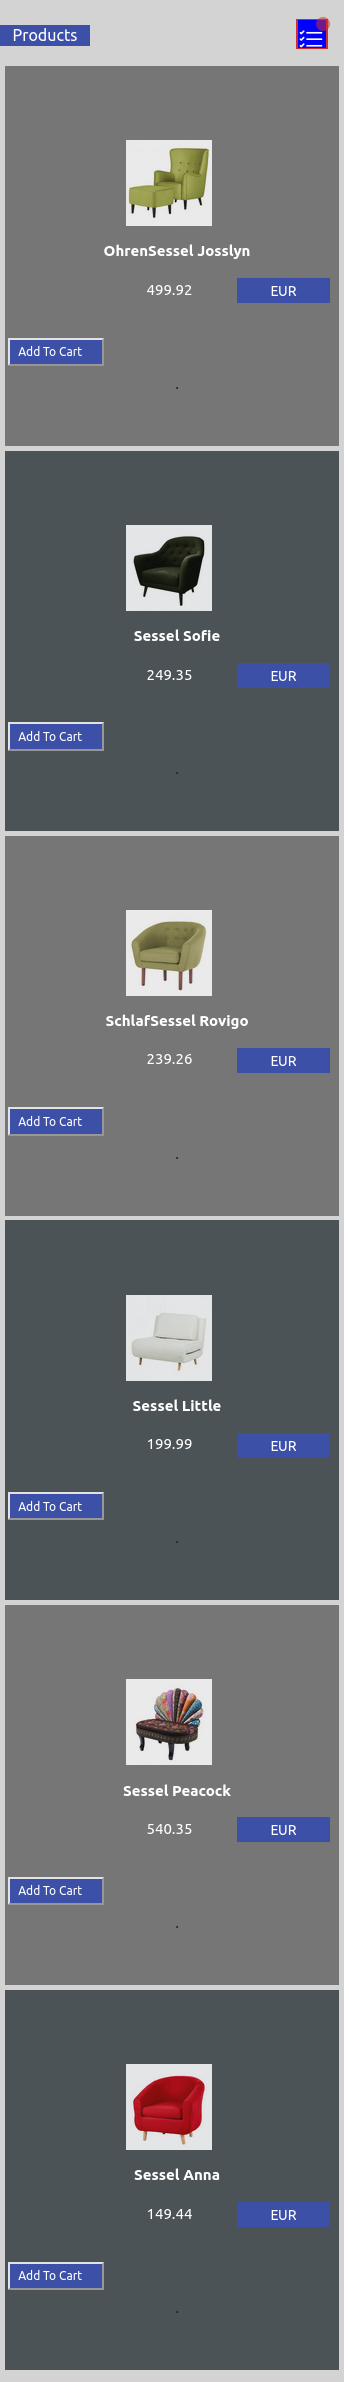
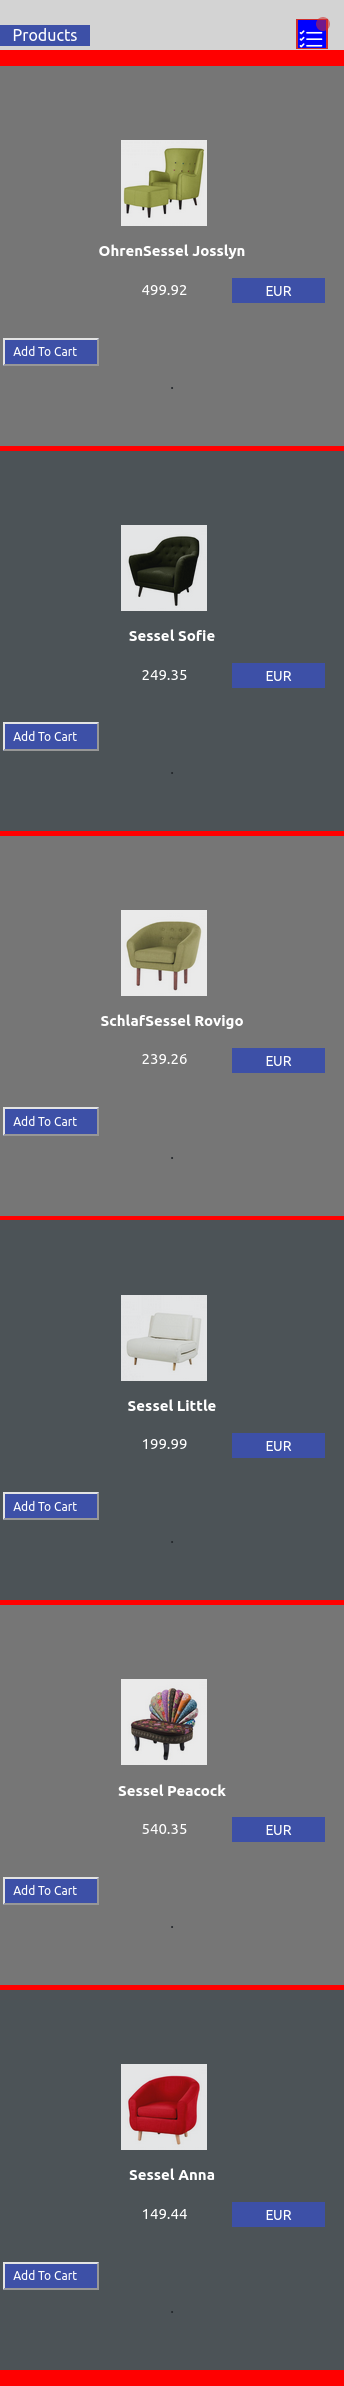
update media queries v1

diff --git a/src/components/Carts/CartsMenu.css b/src/components/Carts/CartsMenu.css
@@ -128,13 +128,17 @@ ul {
   .account_in_carts p {
     position: relative;
     top: 0.5rem;
-    right: -2.5rem;
+    right: -2rem;
+    display: flex;
+    flex-direction: row;
+    text-align: center;
+    gap: 0.5rem;
   }
 
   .account_in_carts .in_carts {
     padding: 3px;
     height: auto;
-    width: 80px;
+    width: 40px;
     background: #cf2e2e;
   }
 
@@ -168,6 +172,10 @@ ul {
     background-color: rgb(71, 126, 9);
     padding: 6px 0;
     margin: 0 auto;
+  }
+
+  .entire_bill .my_bill {
+    margin-right: 10px;
   }
 }
 

diff --git a/src/components/Carts/Carts.css b/src/components/Carts/Carts.css
@@ -44,9 +44,9 @@ ul {
   .account_in_carts p {
     display: flex;
     flex-direction: row;
-    width: 60%;
-    padding: 0.5rem;
-    gap: 0.35rem;
+    width: 60px;
+    padding: 0.35rem 0.1rem;
+    gap: 0.15rem;
     font-size: 14px;
   }
 
@@ -78,5 +78,14 @@ ul {
     align-items: center;
     width: 90%;
     margin: auto;
+  }
+
+  .entire_bill {
+    flex-direction: row;
+    gap: 1rem;
+  }
+
+  .entire_bill .my_bill {
+    margin-right: 20px;
   }
 }

diff --git a/src/App.css b/src/App.css
@@ -8,7 +8,7 @@ div {
   width: 100%;
 }
 
-@media (min-width: 230px) {
+@media (min-width: 210px) {
   .App {
     position: relative;
     width: 100vw;
@@ -22,18 +22,10 @@ div {
     align-items: center;
     background-color: #d3d3d3;
   }
-
-  .carts_desktop {
-    display: none;
-  }
 }
 
-@media (min-width: 768px) {
+@media (min-width: 960px) {
   .App_container {
     flex-direction: row;
-  }
-
-  .carts_desktop {
-    display: block;
   }
 }

diff --git a/src/components/Products/Products.css b/src/components/Products/Products.css
@@ -17,6 +17,7 @@ li {
 @media (min-width: 210px) {
   .products_container {
     width: 100%;
+    overflow-x: hidden;
   }
 
   .products_content {
@@ -247,10 +248,11 @@ li {
   }
 
   .product_grid {
+    overflow: hidden;
+    width: 100%;
     padding: 1rem 0;
     display: flex;
     flex-direction: column;
-    width: calc(100vw - 10px);
     gap: 0.3rem;
     height: auto;
     justify-content: center;

diff --git a/src/components/Products/Product.css b/src/components/Products/Product.css
@@ -9,6 +9,14 @@ div {
 }
 
 @media (min-width: 210px) {
+  .product_wrapper {
+    position: relative;
+    top: 0;
+    left: 0;
+    width: 100vw;
+    overflow: hidden;
+  }
+
   .product_content {
     width: 100vw;
     height: 380px;
@@ -16,6 +24,7 @@ div {
     align-items: center;
     gap: 0.4rem;
     font-size: 15px;
+    overflow: hidden;
   }
 
   .img_product {

diff --git a/src/components/Carts/CartsMenu.jsx b/src/components/Carts/CartsMenu.jsx
@@ -45,7 +45,7 @@ function CartsMenu() {
           )}
         </ul>
         <div className="entire_bill">
-          <span className="my_bill  flex-center">Total : {entireBill}</span>
+          <span className="my_bill  flex-center ">Total : {entireBill}</span>
           <span className="design_currency">{currency}</span>
         </div>
       </div>

diff --git a/src/components/Carts/Carts.jsx b/src/components/Carts/Carts.jsx
@@ -45,7 +45,7 @@ function Carts() {
           )}
         </ul>
         <div className="entire_bill">
-          <span className="my_bill d-flex mr-2 flex-center">
+          <span className="my_bill d-flex flex-center">
             Total : {entireBill}
           </span>
           <span className="design_currency">{currency}</span>
